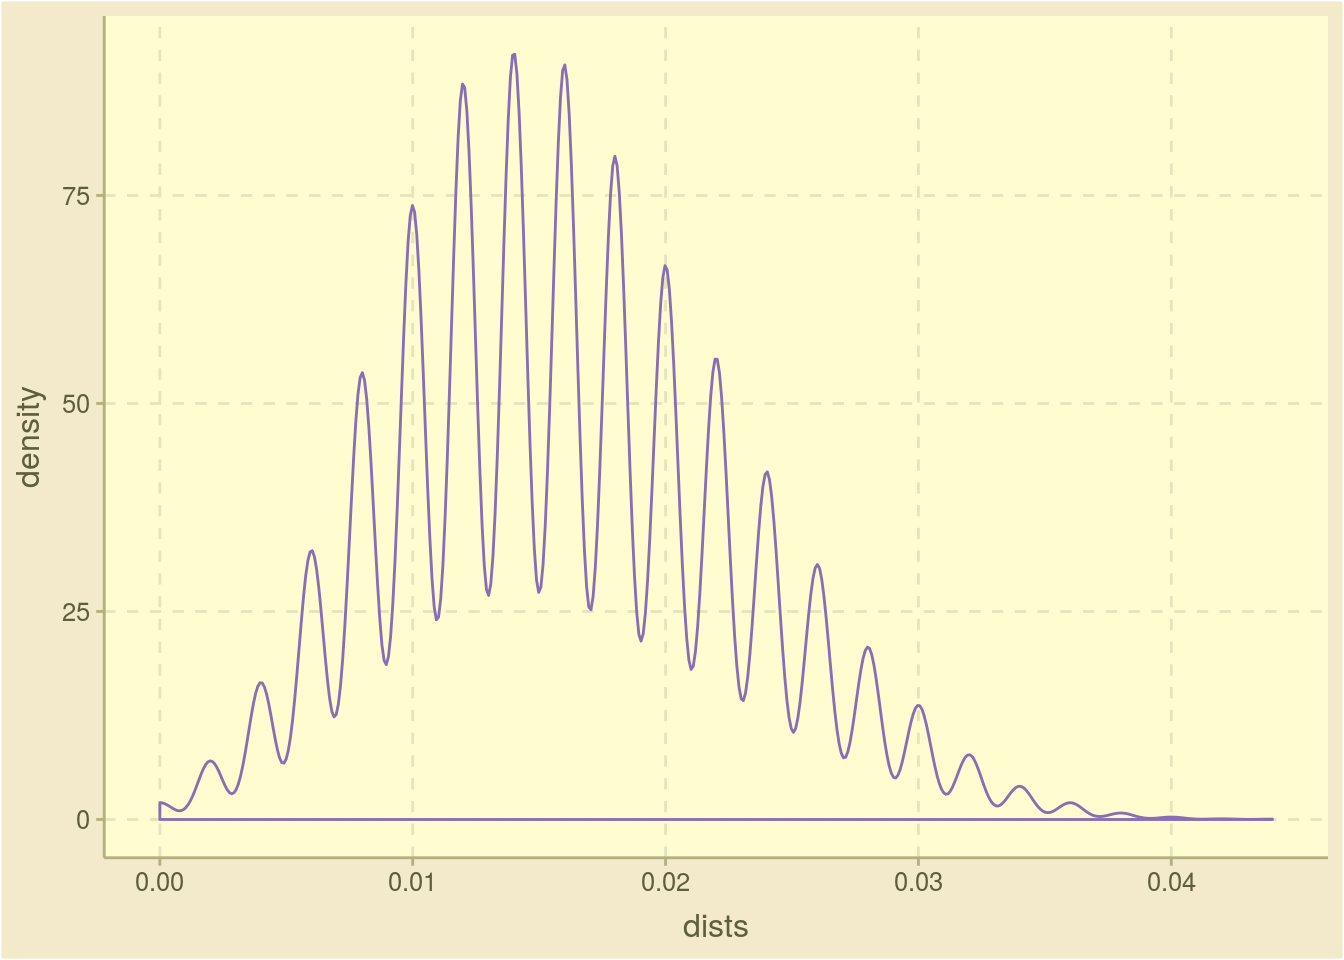
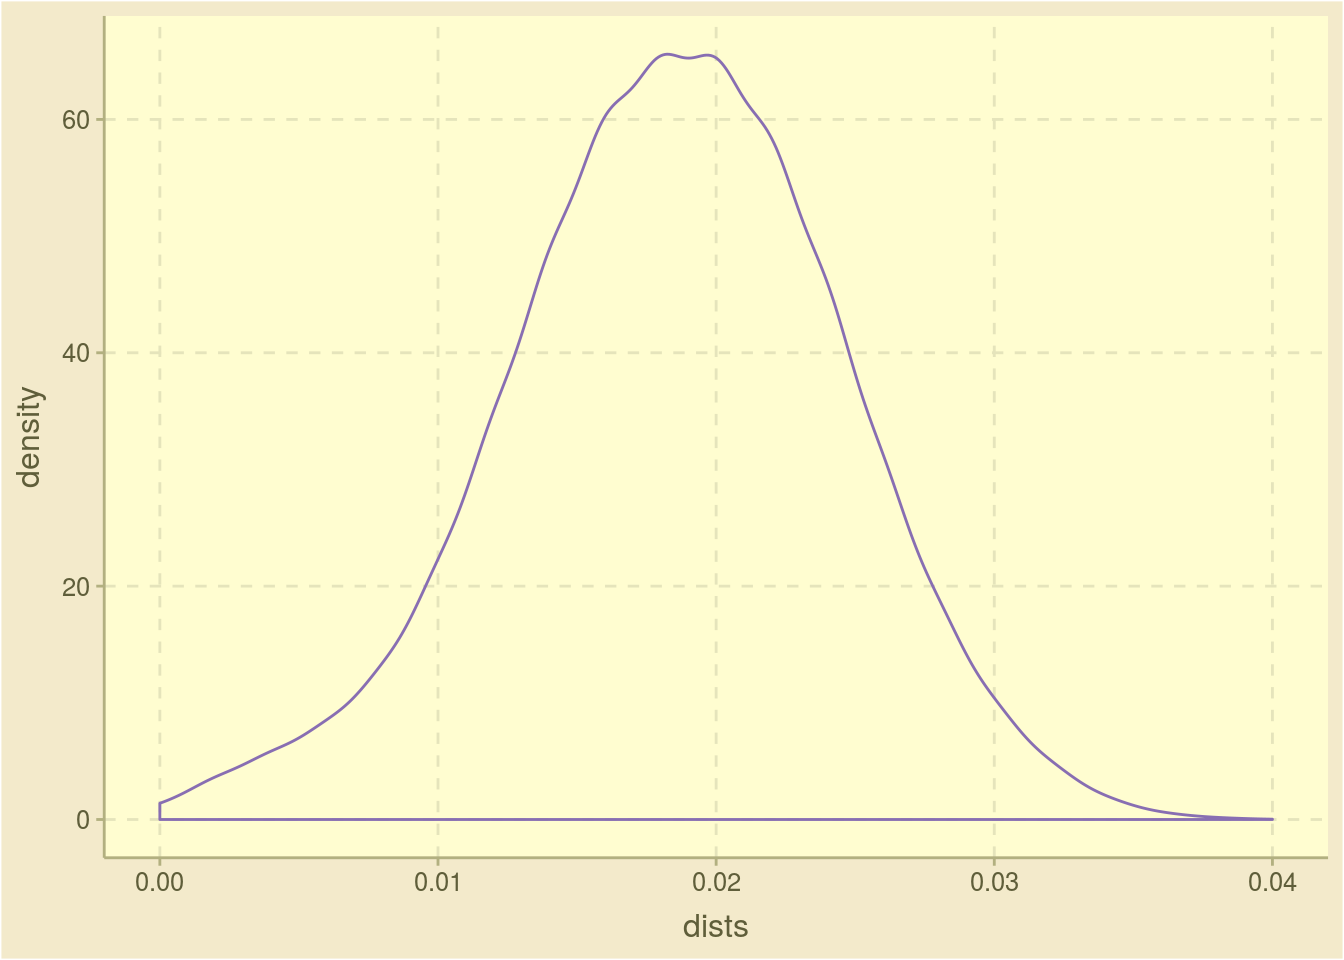
FIX squiggly density plots with custom bandwidth computation

diff --git a/basic_concepts/_book/simple-first-simulation.html b/basic_concepts/_book/simple-first-simulation.html
@@ -150,80 +150,80 @@
 <td align="right">1</td>
 <td align="right">0.0000</td>
 <td align="right">0.0000000</td>
-<td align="right">0.9513031</td>
-<td align="right">0.9513031</td>
+<td align="right">0.6953009</td>
+<td align="right">0.6953009</td>
 </tr>
 <tr class="even">
 <td align="right">1</td>
 <td align="right">2</td>
-<td align="right">48.5000</td>
-<td align="right">0.0970000</td>
-<td align="right">0.4990133</td>
-<td align="right">0.4990133</td>
+<td align="right">50.0000</td>
+<td align="right">0.1000000</td>
+<td align="right">0.4418301</td>
+<td align="right">0.4418301</td>
 </tr>
 <tr class="odd">
 <td align="right">2</td>
 <td align="right">4</td>
-<td align="right">89.7500</td>
-<td align="right">0.1795000</td>
-<td align="right">0.5784840</td>
-<td align="right">0.5784840</td>
+<td align="right">98.0000</td>
+<td align="right">0.1960000</td>
+<td align="right">0.4115129</td>
+<td align="right">0.4115129</td>
 </tr>
 <tr class="even">
 <td align="right">3</td>
 <td align="right">8</td>
-<td align="right">129.1250</td>
-<td align="right">0.2582500</td>
-<td align="right">0.7406491</td>
-<td align="right">0.7406491</td>
+<td align="right">135.6250</td>
+<td align="right">0.2712500</td>
+<td align="right">0.5402004</td>
+<td align="right">0.5402004</td>
 </tr>
 <tr class="odd">
 <td align="right">4</td>
 <td align="right">16</td>
-<td align="right">161.3750</td>
-<td align="right">0.3227500</td>
-<td align="right">0.6194889</td>
-<td align="right">0.6194889</td>
+<td align="right">165.5000</td>
+<td align="right">0.3310000</td>
+<td align="right">0.5373290</td>
+<td align="right">0.5373290</td>
 </tr>
 <tr class="even">
 <td align="right">5</td>
 <td align="right">32</td>
-<td align="right">189.1250</td>
-<td align="right">0.3782500</td>
-<td align="right">0.5386744</td>
-<td align="right">0.5386744</td>
+<td align="right">194.0625</td>
+<td align="right">0.3881250</td>
+<td align="right">0.6243770</td>
+<td align="right">0.6243770</td>
 </tr>
 <tr class="odd">
 <td align="right">6</td>
 <td align="right">64</td>
-<td align="right">215.0000</td>
-<td align="right">0.4300000</td>
-<td align="right">0.4740851</td>
-<td align="right">0.4740851</td>
+<td align="right">217.4844</td>
+<td align="right">0.4349688</td>
+<td align="right">0.4749771</td>
+<td align="right">0.4749771</td>
 </tr>
 <tr class="even">
 <td align="right">7</td>
 <td align="right">128</td>
-<td align="right">236.4922</td>
-<td align="right">0.4729844</td>
-<td align="right">0.5541020</td>
-<td align="right">0.5541020</td>
+<td align="right">239.6641</td>
+<td align="right">0.4793281</td>
+<td align="right">0.5056083</td>
+<td align="right">0.5056083</td>
 </tr>
 <tr class="odd">
 <td align="right">8</td>
 <td align="right">256</td>
-<td align="right">253.9883</td>
-<td align="right">0.5079766</td>
-<td align="right">0.4839088</td>
-<td align="right">0.4839088</td>
+<td align="right">257.5156</td>
+<td align="right">0.5150313</td>
+<td align="right">0.5238043</td>
+<td align="right">0.5238043</td>
 </tr>
 <tr class="even">
 <td align="right">9</td>
 <td align="right">512</td>
-<td align="right">270.3105</td>
-<td align="right">0.5406211</td>
-<td align="right">0.4714241</td>
-<td align="right">0.4714241</td>
+<td align="right">273.2246</td>
+<td align="right">0.5464492</td>
+<td align="right">0.4970581</td>
+<td align="right">0.4970581</td>
 </tr>
 </tbody>
 </table>
@@ -236,7 +236,7 @@ Three key ways to look at this data is:</p>
 <li>The deciles / quartiles / some other set of percentiles of the distribution.</li>
 </ul>
 <p>For now we will present all three. Once we have some solid results to argue about we can look at dropping some of these metrics.</p>
-<p>The average pairwise HD is <strong>332.53</strong> and normalized by the length of the sequence it is <strong>0.665</strong>. The distribution is shown in Figure <a href="simple-first-simulation.html#fig:first-density-plot">1.1</a> and the deciles are listed in Table <a href="simple-first-simulation.html#tab:first-deciles">1.3</a>.</p>
+<p>The average pairwise HD is <strong>333.11</strong> and normalized by the length of the sequence it is <strong>0.666</strong>. The distribution is shown in Figure <a href="simple-first-simulation.html#fig:first-density-plot">1.1</a> and the deciles are listed in Table <a href="simple-first-simulation.html#tab:first-deciles">1.3</a>.</p>
 <div class="figure"><span id="fig:first-density-plot"></span>
 <img src="_main_files/figure-html/first-density-plot-1.png" alt="Density plot of the pariwise distances in the last generation" width="672" />
 <p class="caption">
@@ -254,47 +254,47 @@ Figure 1.1: Density plot of the pariwise distances in the last generation
 <tbody>
 <tr class="odd">
 <td align="left">0%</td>
-<td align="right">0.152</td>
+<td align="right">0.144</td>
 </tr>
 <tr class="even">
 <td align="left">10%</td>
-<td align="right">0.618</td>
+<td align="right">0.614</td>
 </tr>
 <tr class="odd">
 <td align="left">20%</td>
-<td align="right">0.646</td>
+<td align="right">0.644</td>
 </tr>
 <tr class="even">
 <td align="left">30%</td>
-<td align="right">0.658</td>
+<td align="right">0.660</td>
 </tr>
 <tr class="odd">
 <td align="left">40%</td>
-<td align="right">0.668</td>
+<td align="right">0.670</td>
 </tr>
 <tr class="even">
 <td align="left">50%</td>
-<td align="right">0.676</td>
+<td align="right">0.678</td>
 </tr>
 <tr class="odd">
 <td align="left">60%</td>
-<td align="right">0.682</td>
+<td align="right">0.686</td>
 </tr>
 <tr class="even">
 <td align="left">70%</td>
-<td align="right">0.690</td>
+<td align="right">0.692</td>
 </tr>
 <tr class="odd">
 <td align="left">80%</td>
-<td align="right">0.698</td>
+<td align="right">0.700</td>
 </tr>
 <tr class="even">
 <td align="left">90%</td>
-<td align="right">0.708</td>
+<td align="right">0.712</td>
 </tr>
 <tr class="odd">
 <td align="left">100%</td>
-<td align="right">0.772</td>
+<td align="right">0.782</td>
 </tr>
 </tbody>
 </table>

diff --git a/basic_concepts/_book/more-realistic-mu.html b/basic_concepts/_book/more-realistic-mu.html
@@ -147,80 +147,80 @@
 <td align="right">1</td>
 <td align="right">0.000000</td>
 <td align="right">0.0000000</td>
-<td align="right">0.8012427</td>
-<td align="right">0.8012427</td>
+<td align="right">0.2046460</td>
+<td align="right">0.2046460</td>
 </tr>
 <tr class="even">
 <td align="right">1</td>
 <td align="right">2</td>
-<td align="right">0.000000</td>
-<td align="right">0.0000000</td>
-<td align="right">0.5710862</td>
-<td align="right">0.5710862</td>
+<td align="right">0.500000</td>
+<td align="right">0.0010000</td>
+<td align="right">0.8878446</td>
+<td align="right">0.8878446</td>
 </tr>
 <tr class="odd">
 <td align="right">2</td>
 <td align="right">4</td>
-<td align="right">0.000000</td>
-<td align="right">0.0000000</td>
-<td align="right">0.3816352</td>
-<td align="right">0.3816352</td>
+<td align="right">1.250000</td>
+<td align="right">0.0025000</td>
+<td align="right">0.6654219</td>
+<td align="right">0.6654219</td>
 </tr>
 <tr class="even">
 <td align="right">3</td>
 <td align="right">8</td>
-<td align="right">0.875000</td>
-<td align="right">0.0017500</td>
-<td align="right">0.6026169</td>
-<td align="right">0.6026169</td>
+<td align="right">2.125000</td>
+<td align="right">0.0042500</td>
+<td align="right">0.5744388</td>
+<td align="right">0.5744388</td>
 </tr>
 <tr class="odd">
 <td align="right">4</td>
 <td align="right">16</td>
-<td align="right">1.500000</td>
-<td align="right">0.0030000</td>
-<td align="right">0.4378331</td>
-<td align="right">0.4378331</td>
+<td align="right">2.687500</td>
+<td align="right">0.0053750</td>
+<td align="right">0.6011765</td>
+<td align="right">0.6011765</td>
 </tr>
 <tr class="even">
 <td align="right">5</td>
 <td align="right">32</td>
-<td align="right">2.187500</td>
-<td align="right">0.0043750</td>
-<td align="right">0.4942767</td>
-<td align="right">0.4942767</td>
+<td align="right">3.406250</td>
+<td align="right">0.0068125</td>
+<td align="right">0.4602869</td>
+<td align="right">0.4602869</td>
 </tr>
 <tr class="odd">
 <td align="right">6</td>
 <td align="right">64</td>
-<td align="right">2.640625</td>
-<td align="right">0.0052812</td>
-<td align="right">0.5292192</td>
-<td align="right">0.5292192</td>
+<td align="right">3.890625</td>
+<td align="right">0.0077812</td>
+<td align="right">0.5417430</td>
+<td align="right">0.5417430</td>
 </tr>
 <tr class="even">
 <td align="right">7</td>
 <td align="right">128</td>
-<td align="right">3.210938</td>
-<td align="right">0.0064219</td>
-<td align="right">0.5045761</td>
-<td align="right">0.5045761</td>
+<td align="right">4.234375</td>
+<td align="right">0.0084688</td>
+<td align="right">0.5496094</td>
+<td align="right">0.5496094</td>
 </tr>
 <tr class="odd">
 <td align="right">8</td>
 <td align="right">256</td>
-<td align="right">3.718750</td>
-<td align="right">0.0074375</td>
-<td align="right">0.5262254</td>
-<td align="right">0.5262254</td>
+<td align="right">4.722656</td>
+<td align="right">0.0094453</td>
+<td align="right">0.5187453</td>
+<td align="right">0.5187453</td>
 </tr>
 <tr class="even">
 <td align="right">9</td>
 <td align="right">512</td>
-<td align="right">4.207031</td>
-<td align="right">0.0084141</td>
-<td align="right">0.4808603</td>
-<td align="right">0.4808603</td>
+<td align="right">5.236328</td>
+<td align="right">0.0104727</td>
+<td align="right">0.5028227</td>
+<td align="right">0.5028227</td>
 </tr>
 </tbody>
 </table>
@@ -245,35 +245,35 @@ Figure 2.1: Density plot of the pariwise distances in the last generation
 </tr>
 <tr class="even">
 <td align="left">10%</td>
-<td align="right">0.008</td>
+<td align="right">0.010</td>
 </tr>
 <tr class="odd">
 <td align="left">20%</td>
-<td align="right">0.010</td>
-</tr>
-<tr class="even">
-<td align="left">30%</td>
-<td align="right">0.012</td>
-</tr>
-<tr class="odd">
-<td align="left">40%</td>
 <td align="right">0.014</td>
 </tr>
 <tr class="even">
-<td align="left">50%</td>
+<td align="left">30%</td>
 <td align="right">0.016</td>
 </tr>
 <tr class="odd">
-<td align="left">60%</td>
+<td align="left">40%</td>
 <td align="right">0.018</td>
 </tr>
 <tr class="even">
-<td align="left">70%</td>
+<td align="left">50%</td>
+<td align="right">0.018</td>
+</tr>
+<tr class="odd">
+<td align="left">60%</td>
 <td align="right">0.020</td>
+</tr>
+<tr class="even">
+<td align="left">70%</td>
+<td align="right">0.022</td>
 </tr>
 <tr class="odd">
 <td align="left">80%</td>
-<td align="right">0.022</td>
+<td align="right">0.024</td>
 </tr>
 <tr class="even">
 <td align="left">90%</td>
@@ -281,7 +281,7 @@ Figure 2.1: Density plot of the pariwise distances in the last generation
 </tr>
 <tr class="odd">
 <td align="left">100%</td>
-<td align="right">0.044</td>
+<td align="right">0.040</td>
 </tr>
 </tbody>
 </table>
